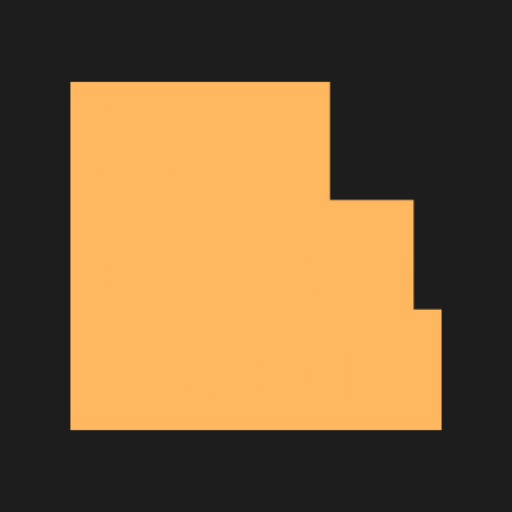
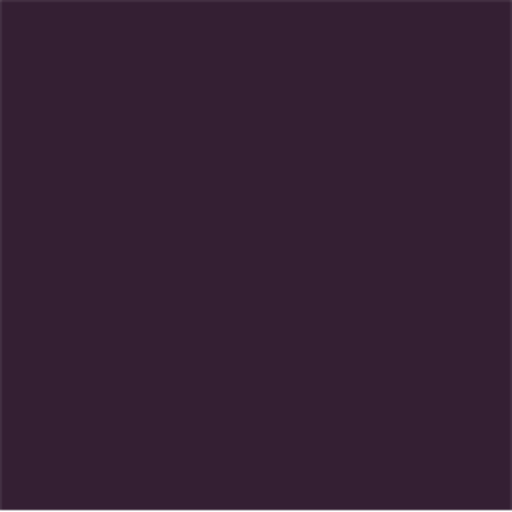
Minor brand update

diff --git a/asset/css/main.css b/asset/css/main.css
@@ -4,10 +4,10 @@
 
 :root {
 
-    --bg: #1d1d1d;
+    --bg: #341f33;
     --text: #e9e9e9;
 
-    --brand: #ffb85f;
+    --brand: #ffa05f;
     --brand-loop-1: #ff5f5f;
     --brand-loop-2: #ffa05f;
     --brand-loop-3: #ffe25f;
